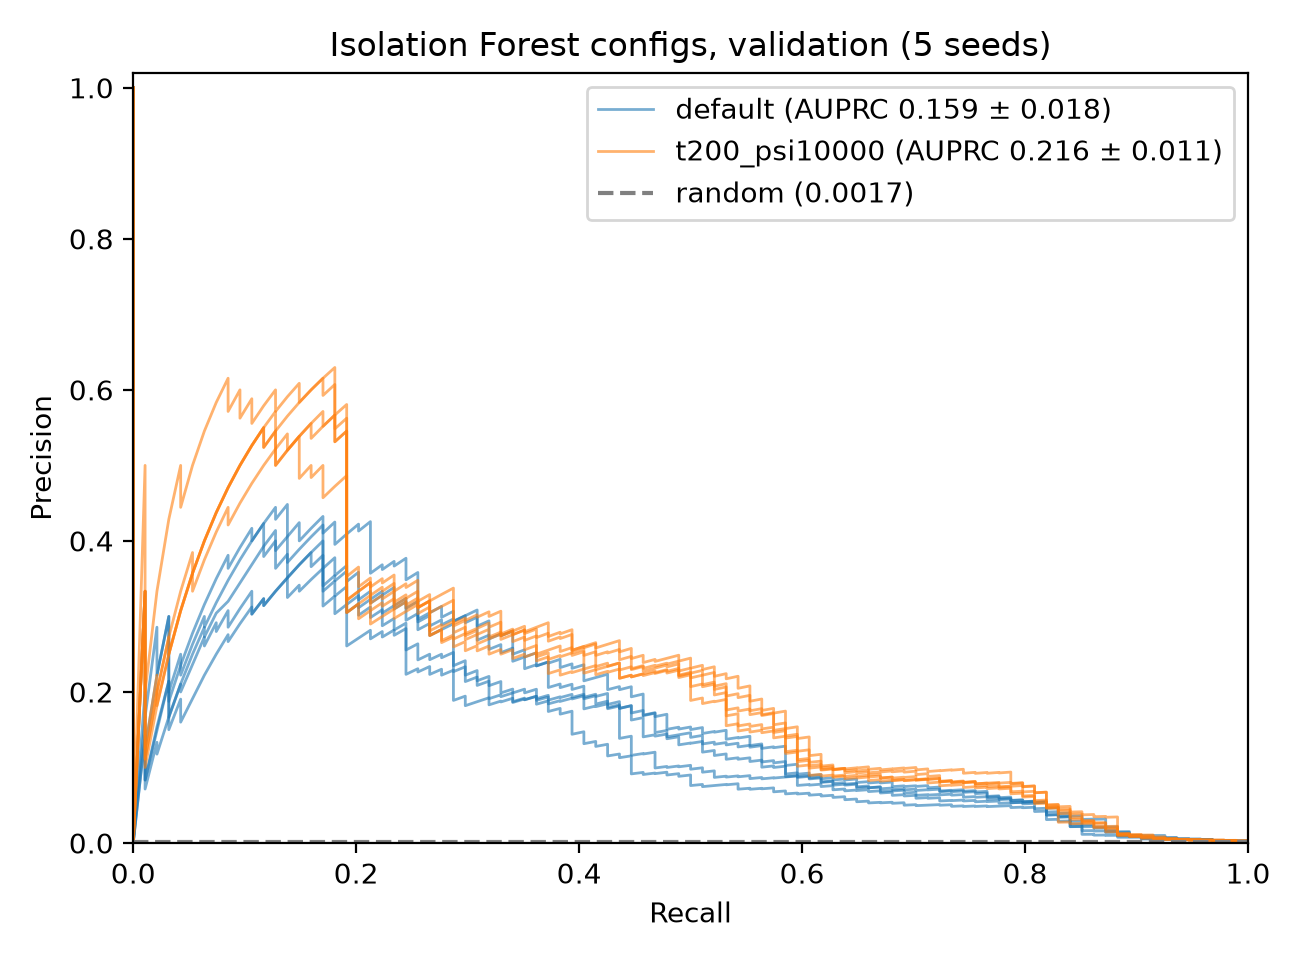
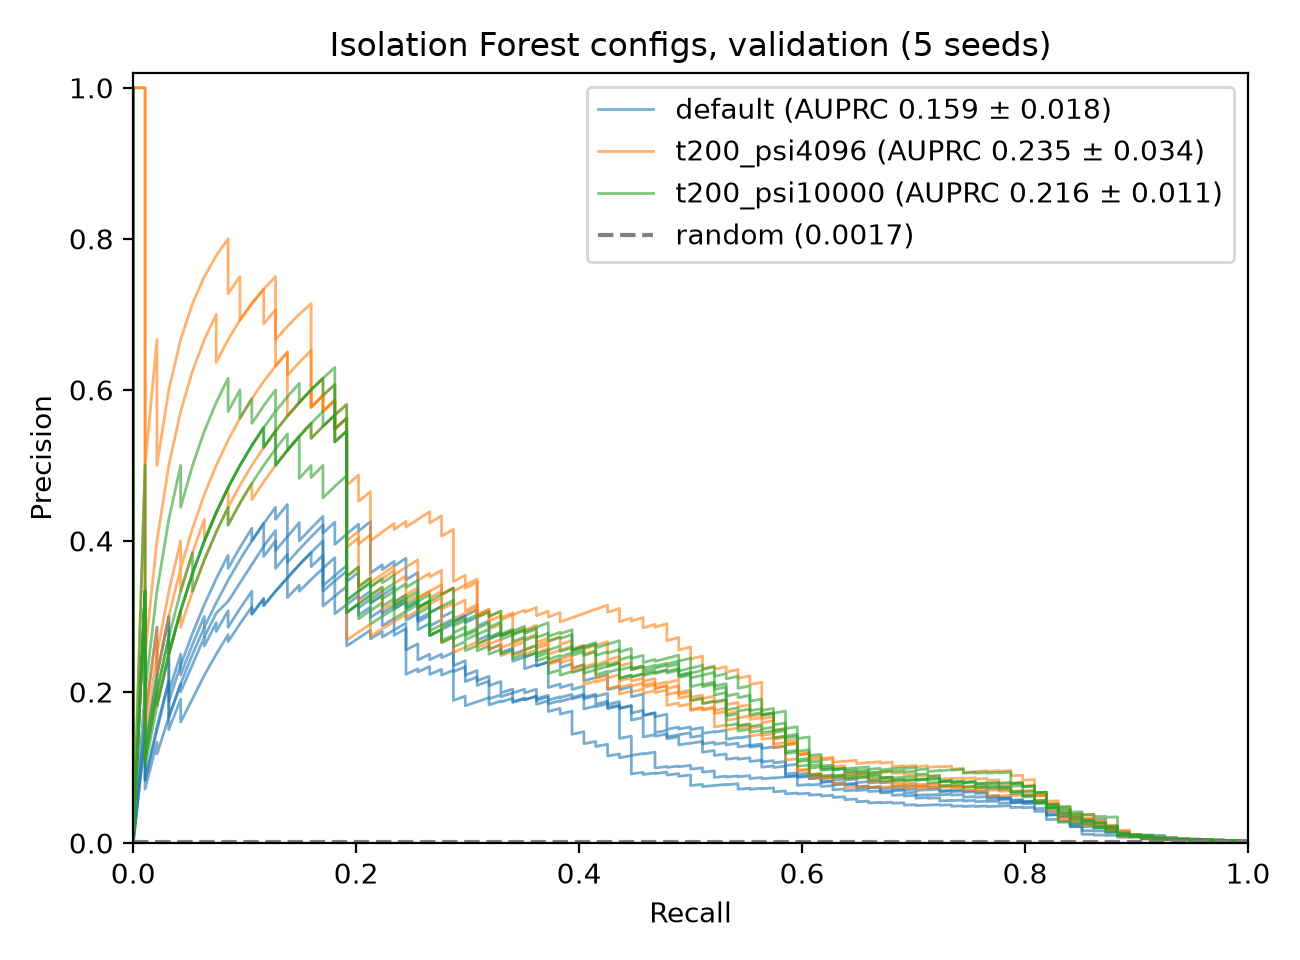
Adopt IF tuned = 200 trees, psi=4096; clarify test-set rule in README
- run_if.py: add t200_psi4096 config next to default and psi=10000
- results/figures: regenerated comparison table and PR plots
- README: test set only for final run plus integrity checks; tuned IF note

Changed region(s): [[0.0923, 0.0938, 0.9231, 0.875], [0.4615, 0.125, 0.9538, 0.2812]]

diff --git a/src/run_if.py b/src/run_if.py
@@ -1,9 +1,10 @@
 """
-run_if.py  --  Isolation Forest: sklearn defaults vs. a larger forest, validation only.
+run_if.py  --  Isolation Forest: sklearn defaults vs. larger forests, validation only.
 
 Configs (psi = max_samples):
     default        100 trees, psi = 256     (sklearn defaults; the control)
-    t200_psi10000  200 trees, psi = 10000
+    t200_psi4096   200 trees, psi = 4096    (the team's "IF tuned" choice)
+    t200_psi10000  200 trees, psi = 10000   (comparison)
 Each is fit on the train split for 5 seeds and scored on the validation split with
 -score_samples (higher = more anomalous). Reports mean +/- std of AUPRC and recall@k.
 
@@ -33,6 +34,7 @@ FIGURES_DIR = ROOT / "figures"
 SEEDS = range(5)
 CONFIGS = {
     "default": dict(n_estimators=100, max_samples=256),
+    "t200_psi4096": dict(n_estimators=200, max_samples=4096),
     "t200_psi10000": dict(n_estimators=200, max_samples=10000),
 }
 

diff --git a/README.md b/README.md
@@ -101,7 +101,9 @@ this), so fingerprints only identify the Drive copy.
    For IF use `-model.score_samples(X)` since sklearn's value is higher = more normal.
 2. **Split**: Deduplicated stratified random 60/20/20 split with seed 0, generated by `src/make_random_split.py`.
    All experiments use the same fixed split.
-3. **Test set:** nobody touches it before the final run. Only C runs it, once, on 11/11.
+3. **Test set:** it is used only in the single final evaluation (`final_test.py`), run by C once
+   on 11/11. Never fit, tune, score or evaluate on it anywhere else. The only other use is
+   integrity checks (row count, fraud count, SHA-256 fingerprint: `check_split.py`, `test.py`).
    All tuning uses the validation set.
 4. **Metrics:** call `eval_utils.evaluate(y_true, scores)` so all results are comparable.
 
@@ -113,7 +115,7 @@ reproduce the committed `results/*.csv` exactly.
 ```bash
 python src/make_random_split.py   # one-time (or use the Drive files): data/random_split/
 python src/check_split.py         # confirm the split
-python src/run_if.py              # IF default vs. t200_psi10000, validation, ~20 s
+python src/run_if.py              # IF default vs. tuned (psi=4096) vs. psi=10000, validation
 python src/scaling_experiment.py  # scaling experiment, validation, ~20 s
 python src/tune_if.py             # IF grid psi x n_estimators, validation, ~2.5 min
 python src/run_knn.py             # D: kNN tuning, writes results/knn_selected.json
@@ -149,8 +151,9 @@ The local `.baseline_cache/` is ignored; rerun comparison to regenerate it.
 Mean ± sample std over seeds 0-4 (logistic is deterministic). Validation has 94 frauds,
 random AUPRC = 0.0017. Source: `results/baselines_compare_val.csv`; see
 `BASELINES_NOTES.md` for settings and caveats. "IF tuned" is the best mean AUPRC of
-`results/if_tuning_val.csv` (200 trees, psi = 4096); AUPRC is flat within noise for
-psi from about 2048 to 50000, so this choice is not sharp.
+`results/if_tuning_val.csv` (200 trees, psi = 4096), which the team adopted as the tuned
+configuration; AUPRC is flat within noise for psi from about 2048 to 50000, so this choice
+is not sharp.
 
 | Method | Uses labels | AUPRC | recall@50 | recall@n_pos | recall@200 |
 |---|---|---|---|---|---|
